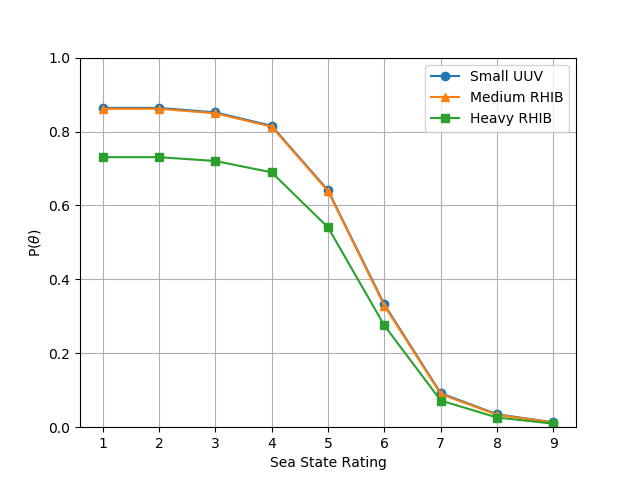
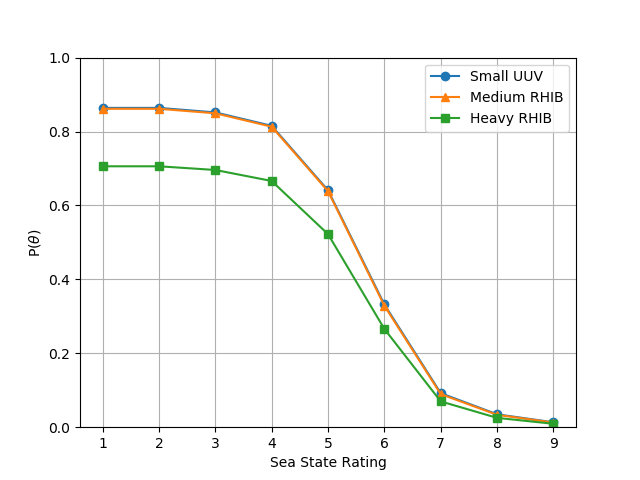
Added a new case study

diff --git a/case_study.py b/case_study.py
@@ -51,7 +51,7 @@ ss6 = Environment('SS6',6,6)
 # Vehicle: (self,name,volume,weight,variability,flexibility,complexity)
 veh1 = Vehicle('UUV',0.5,0.1,2,2,4)
 veh2 = Vehicle('MRHIB',10,5,4,3,2)
-veh3 = Vehicle('HRHIB',15,10,4,5,3)
+veh3 = Vehicle('HRHIB',15,10,4,5,4)
 
 # Set up Variable Vectors
 sat = []
@@ -193,7 +193,3 @@ plt.ylabel(r'P($\theta$)')
 plt.ylim(0, 1)
 plt.grid()
 plt.savefig('output/case_study_6.png',format='png')
-
-print(difference)
-print(max(sat[9:18]))
-print(max(sat[36:45]))
